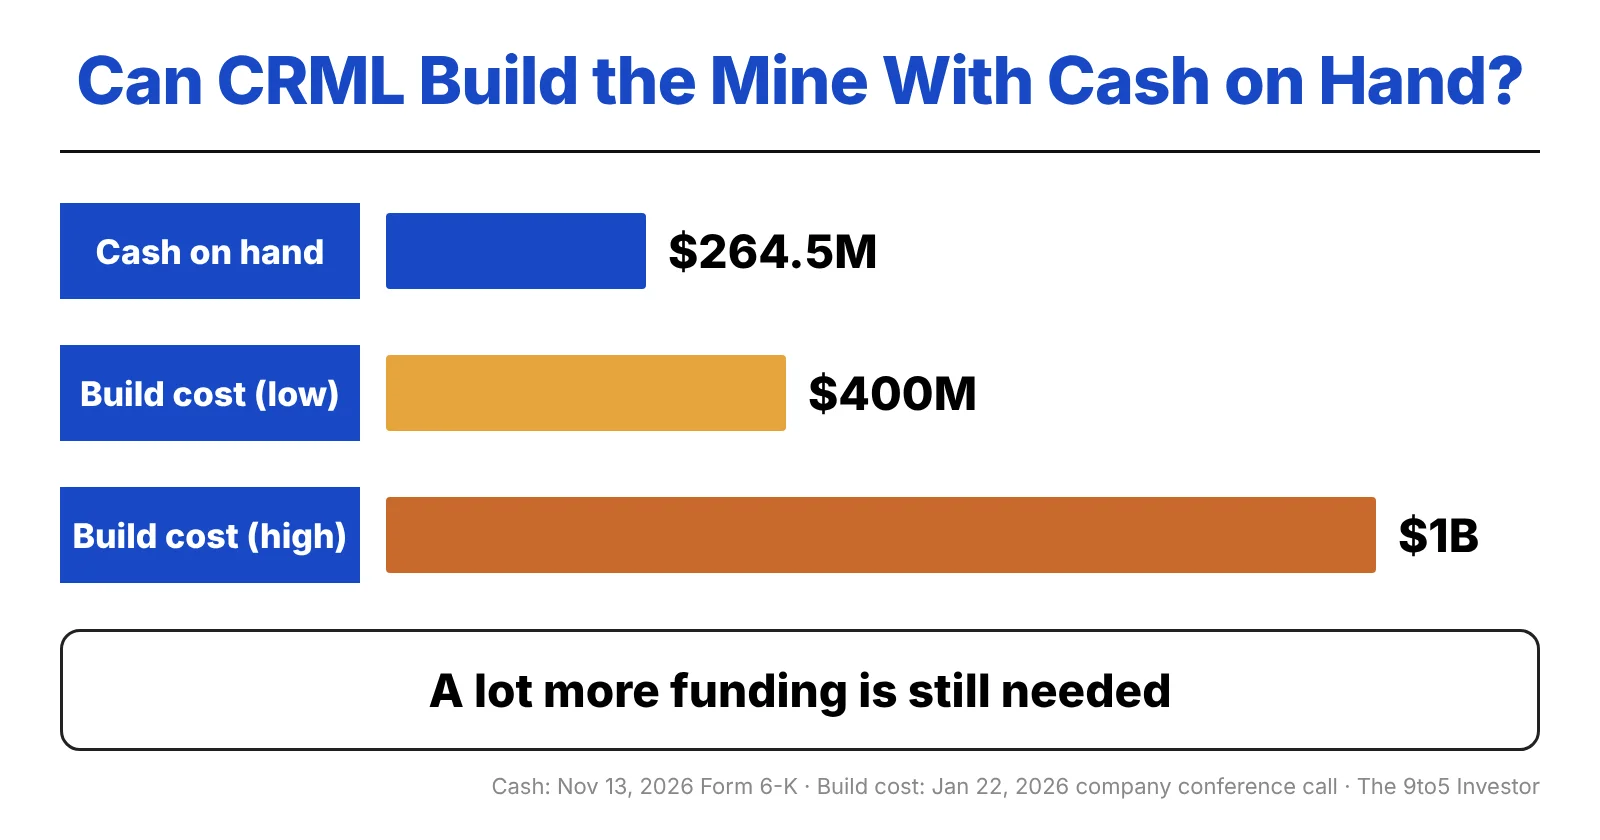
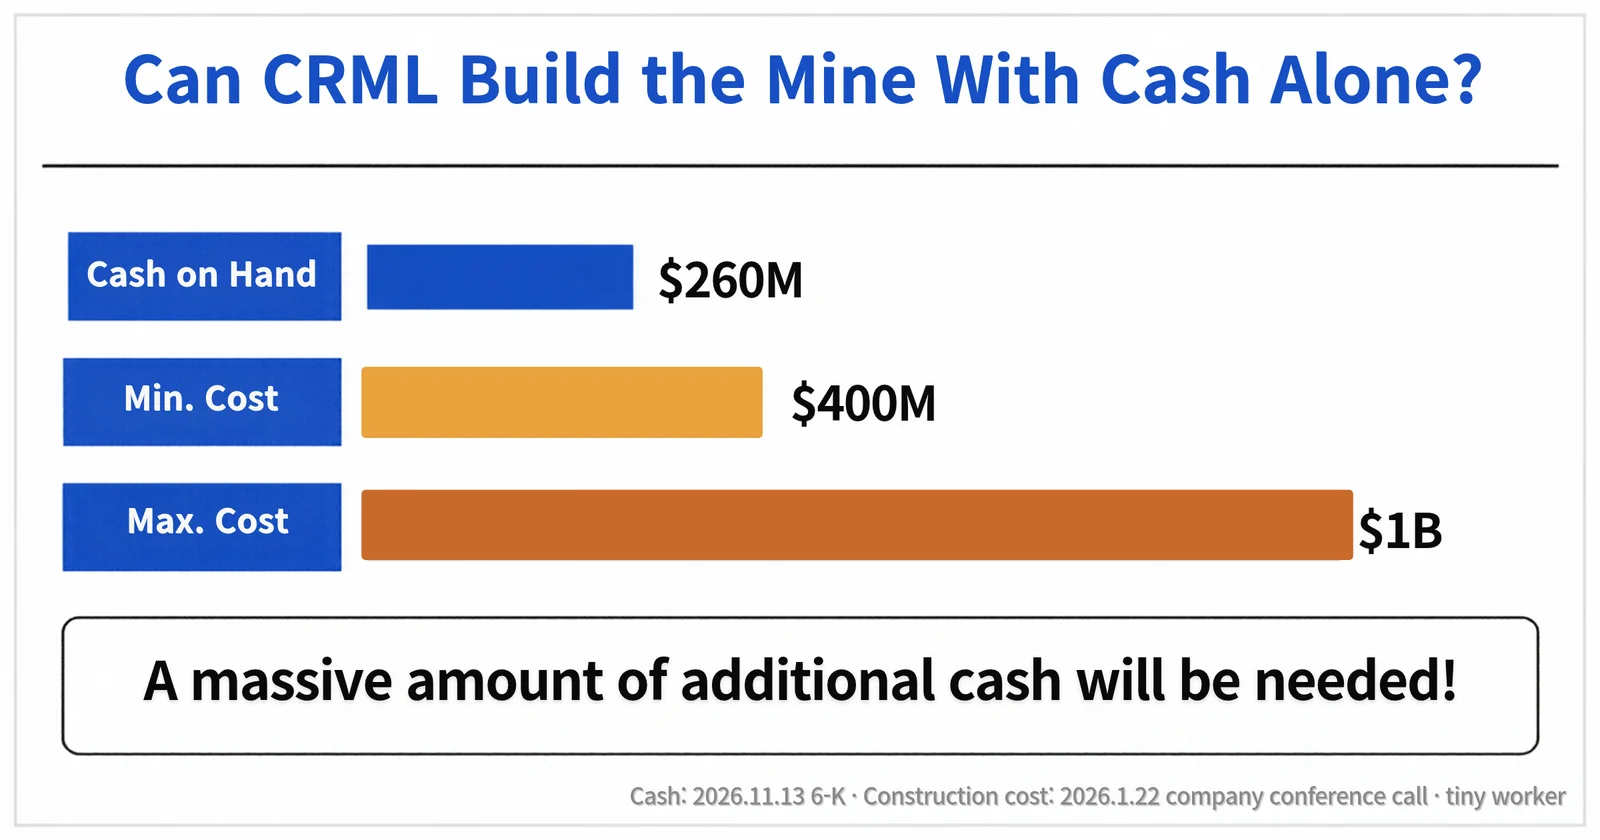
CRML post: use the author's English images; new cover
Claude-Session: https://claude.ai/code/session_0173GRgG8dArMiVJGVaP1HcF

Changed region(s): [[0.0312, 0.1548, 1.0, 0.9905], [0.0312, 0.0619, 0.9688, 0.1238]]

diff --git a/src/content/posts/critical-metals-crml-stock-drop.md b/src/content/posts/critical-metals-crml-stock-drop.md
@@ -19,6 +19,11 @@ faq:
     a: "No. Only about 15% is covered by a signed, binding offtake contract. The rest is in non-binding agreements, which are not legally enforceable."
 ---
 
+<figure>
+  <img src="/images/posts/critical-metals-crml-stock-drop/critical-metals-no-money-to-build-the-mine.webp" alt="Critical Metals infographic: no money to build the mine, with about $260 million of cash on hand versus a maximum construction cost of $1 billion" width="1200" height="1500" />
+  <figcaption>Critical Metals has about $260 million in cash against a mine that could cost up to $1 billion to build.</figcaption>
+</figure>
+
 ## Quick answer
 
 Critical Metals (CRML) stock has fallen for three reasons: **(1)** its auditor doubts the company can keep operating for another year, **(2)** up to about **100 million shares** sold to private investors can hit the market whenever the price bounces, and **(3)** the merger with European Lithium grew the share count by about **32%**. All three come back to one problem: **the company doesn't yet have the money to build its Tanbreez rare earth mine in Greenland.**
@@ -26,7 +31,7 @@ Critical Metals (CRML) stock has fallen for three reasons: **(1)** its auditor d
 *Figures as of November 2026, based on company filings.*
 
 <figure>
-  <img src="/images/posts/critical-metals-crml-stock-drop/three-reasons-crml-stock-fell.webp" alt="Three reasons Critical Metals (CRML) stock fell: auditor's going-concern doubt, up to about 100 million shares that could be sold, and share count rising from about 147 million to 194 million (+32%) after the merger" width="1600" height="900" loading="lazy" />
+  <img src="/images/posts/critical-metals-crml-stock-drop/three-reasons-crml-stock-fell.webp" alt="3 reasons Critical Metals (CRML) is falling: auditor raises going-concern doubts, up to about 100 million shares that could be sold, and share count rising from about 147 million to 194 million (+32%) after the merger" width="1600" height="840" loading="lazy" />
   <figcaption>The three reasons behind CRML's slide, summarized. Source: Critical Metals filings, November 2026.</figcaption>
 </figure>
 
@@ -71,8 +76,8 @@ My first thought was that this might be good news, since the merger brought in c
 No. The company's own estimate for building the mine is **at least $400 million, and up to $1 billion**. Even the low end is more than the cash on hand.
 
 <figure>
-  <img src="/images/posts/critical-metals-crml-stock-drop/cash-vs-mine-construction-cost.webp" alt="Bar chart comparing Critical Metals' cash on hand of $264.5 million with the Tanbreez mine construction cost estimate of $400 million (low) to $1 billion (high)" width="1600" height="840" loading="lazy" />
-  <figcaption>Cash on hand covers less than the low-end construction estimate. Sources: Critical Metals Form 6-K (Nov 13, 2026) for cash; company conference call (Jan 22, 2026) for construction cost.</figcaption>
+  <img src="/images/posts/critical-metals-crml-stock-drop/cash-vs-mine-construction-cost.webp" alt="Bar chart comparing Critical Metals' cash on hand of about $260 million with the Tanbreez mine construction cost estimate of $400 million (low) to $1 billion (high)" width="1600" height="840" loading="lazy" />
+  <figcaption>Cash on hand (about $264.5 million, rounded to $260M in the chart) covers less than the low-end construction estimate. Sources: Critical Metals Form 6-K (Nov 13, 2026) for cash; company conference call (Jan 22, 2026) for construction cost.</figcaption>
 </figure>
 
 And that cash isn't all going into construction. The company has said it will spend this money on studies and permitting, and look for construction financing separately next year. That almost certainly means **more share issuance** — which brings us right back to Reason 2.
